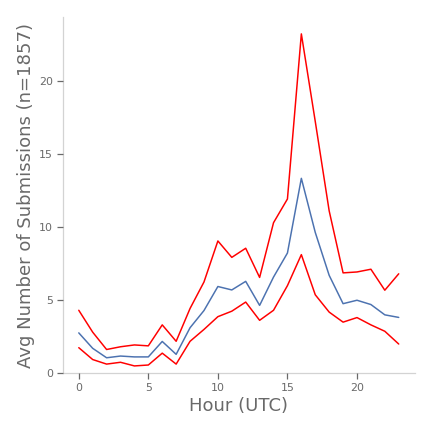
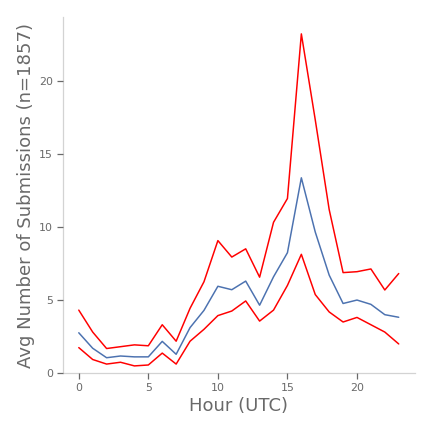
fixed an issue at the intersection of pweave and matplotlib

diff --git a/wsba.py b/wsba.py
@@ -134,23 +134,23 @@ def makeauthorfigures():
     ax.set_ylabel(f'Number of Posts (n={sum(post_counts)})')
     ax.set_ylim(ymin=0)
     ax.set_xlim(xmin=0,xmax=2)
-    plt.tight_layout()
-    plt.savefig('figures/pda_numposts.png')
+    _ = plt.tight_layout()
+    _ = plt.savefig('figures/pda_numposts.png')
     fig, ax = plt.subplots(1,1, figsize=(6,6))
     ax.hist(x=post_counts)
     ax.set_ylabel(f'Number of Posters (n={num_unique_posters})')
     ax.set_xlabel('Number of Posts')
-    plt.tight_layout()
+    _ = plt.tight_layout()
     plt.yscale('log')
-    plt.savefig('figures/pda_numposts_hist.png')
+    _ = plt.savefig('figures/pda_numposts_hist.png')
     
     num, authors, counts = groupbyauthor(show=False, min=6)
     fig, ax = plt.subplots(1,1, figsize=(6,6))
     ax.barh(y=authors, width=counts)
     ax.set_ylabel('Most Productive Posters')
     ax.set_xlabel('Number of Posts')
-    plt.tight_layout()
-    plt.savefig('figures/pda_biggestposters.png')
+    _ = plt.tight_layout()
+    _ = plt.savefig('figures/pda_biggestposters.png')
     
 def makebiggestauthortable():
     num, authors, counts = groupbyauthor(show=False, min=6)
@@ -187,11 +187,11 @@ def getsubmissiondeltas(max=None,log=True,save=None):
     ax.hist(x=deltas)
     ax.set_ylabel(f'Number of Deltas (n={len(deltas)})')
     ax.set_xlabel('Deltas (Seconds Between Submissions)')
-    plt.tight_layout()
+    _ = plt.tight_layout()
     if log:
-        plt.yscale('log')
+        _ = plt.yscale('log')
     if save:
-        plt.savefig(save)
+        _ = plt.savefig(save)
     pass
 
 def groupby_hour(save=None):
@@ -237,10 +237,10 @@ def groupby_hour(save=None):
     ax.plot(hours, submissions)
     ax.set_ylabel(f'Number of Submissions (n={sum(submissions)})')
     ax.set_xlabel('Hour (UTC)')
-    plt.gca().set_ylim(bottom=0)
-    plt.tight_layout()
+    _ = plt.gca().set_ylim(bottom=0)
+    _ = plt.tight_layout()
     if save:
-        plt.savefig(save)
+        _ = plt.savefig(save)
 
 def groupby_month_day_hour(save=None):
     '''
@@ -315,10 +315,10 @@ def groupby_month_day_hour(save=None):
     ax.plot(hours, submissions)
     ax.set_ylabel(f'Number of Submissions (n={sum(submissions)})')
     ax.set_xlabel('Hour Since the Beginning of the Year')
-    plt.gca().set_ylim(bottom=0)
-    plt.tight_layout()
+    _ = plt.gca().set_ylim(bottom=0)
+    _ = plt.tight_layout()
     if save:
-        plt.savefig(save)
+        _ = plt.savefig(save)
 
 def posts_per_hour(save=[None,None]):
     def hour_of_year(month,day,hour):
@@ -440,10 +440,10 @@ def posts_per_hour(save=[None,None]):
     ax.plot(hours, submissions)
     ax.set_ylabel(f'Number of Submissions (n={sum(submissions)})')
     ax.set_xlabel('Hour (UTC)')
-    plt.gca().set_ylim(bottom=0)
-    plt.tight_layout()
+    _ = plt.gca().set_ylim(bottom=0)
+    _ = plt.tight_layout()
     if save[0]:
-        plt.savefig(save[0])
+        _ = plt.savefig(save[0])
     
     bootstrap = calc_bootstrap(submissions_each_hour)
     avg_submissions_each_hour = calc_avg_submissions_each_hour(submissions_each_hour, len(unique_days))
@@ -453,10 +453,10 @@ def posts_per_hour(save=[None,None]):
     ax.plot(range(0,24), np.percentile(bootstrap, 97.5, axis=1), c='red')
     ax.set_ylabel(f'Avg Number of Submissions (n={sum(submissions)})')
     ax.set_xlabel('Hour (UTC)')
-    plt.gca().set_ylim(bottom=0)
-    plt.tight_layout()
+    _ = plt.gca().set_ylim(bottom=0)
+    _ = plt.tight_layout()
     if save[1]:
-        plt.savefig(save[1])   
+        _ = plt.savefig(save[1])   
         
 
 def fig_field_by_age(field='score',logx=False,logy=False,save=False,ymax=None,ymin=None,ymedian=False,ymean=False):

diff --git a/README.md b/README.md
@@ -12,7 +12,7 @@ Hence, the structure of this online community is worthy of investigation because
 
 # The Data
 
-As of 04/03/21, the dataset consisted of 1857 submissions to r/WallStreetBets from 03/18/21 to 04/03/21. These were scraped using the Reddit API and a tool I developed, [WSBScraper](https://github.com/AndrewSamaha/WSBScraper), which saves posts to a MongoDB.
+As of 04/04/21, the dataset consisted of 1857 submissions to r/WallStreetBets from 03/18/21 to 04/03/21. These were scraped using the Reddit API and a tool I developed, [WSBScraper](https://github.com/AndrewSamaha/WSBScraper), which saves posts to a MongoDB.
 
 A Sample:
 ```
@@ -178,4 +178,4 @@ What's the average exposure, average upvote ratio for all posters versus the mos
 1. Matplotlib (visualization)
 1. PWeave (CI/CD: this readme)
 
-_This file was compiled on 2021-04-03._
+_This file was compiled on 2021-04-04._
